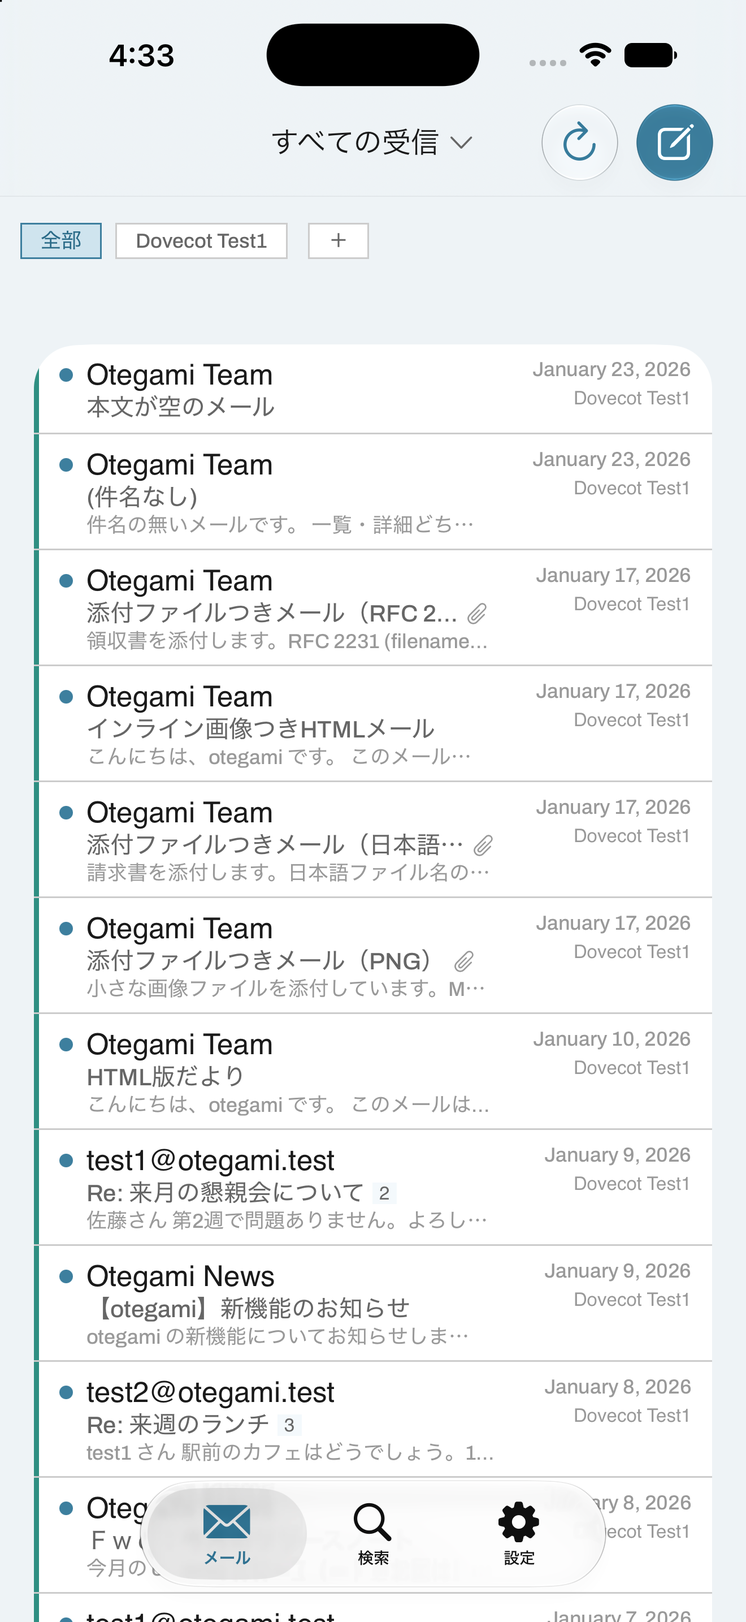
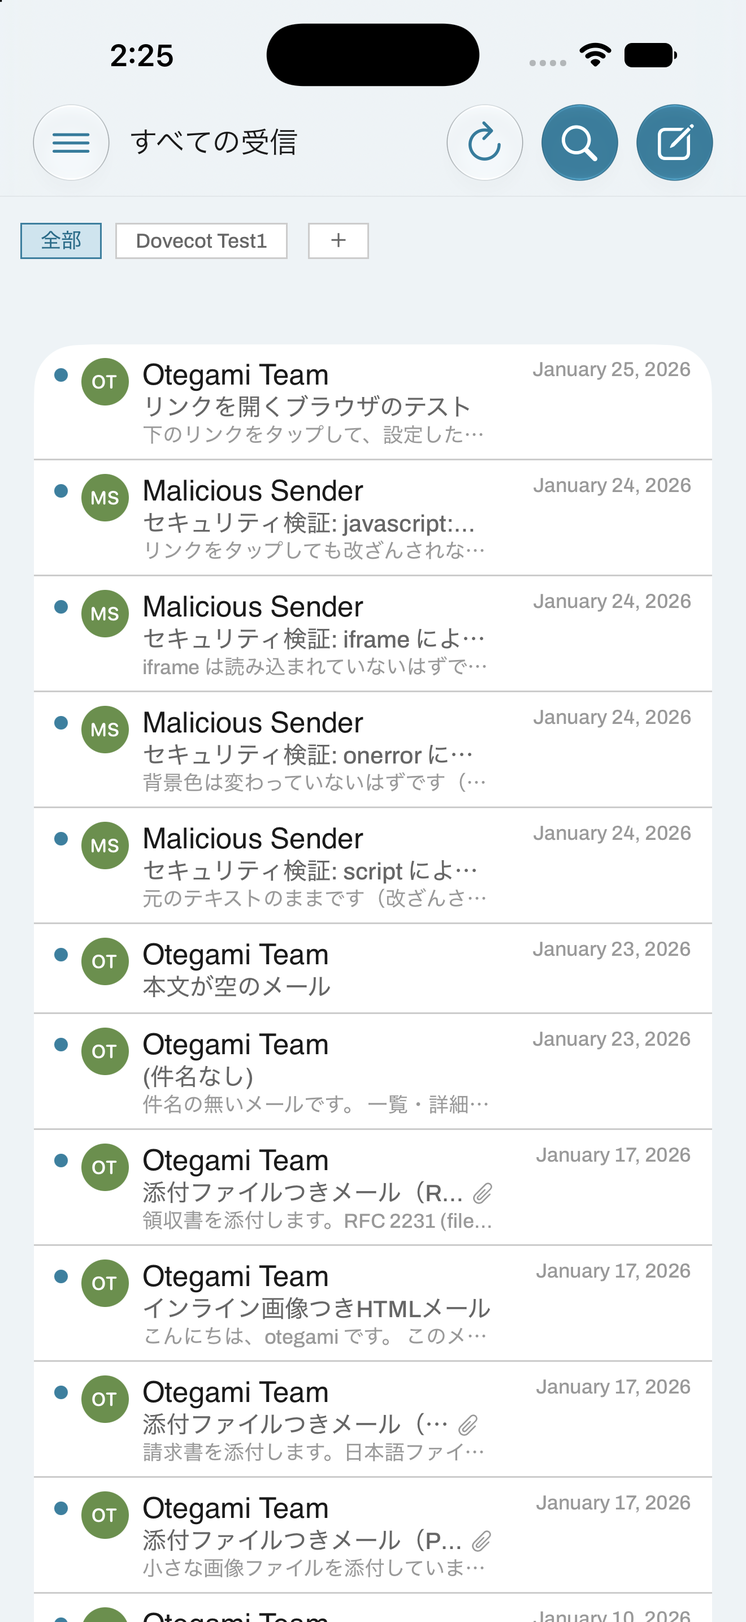
docs: record the hamburger menu / search / footer toolbar restructuring
- CLAUDE.md: 1a's "下部タブバー3つ" is superseded by the hamburger menu +
  header search; points to docs/design-system.md's new section.
- docs/design-system.md: full record of the batch (drawer-vs-sheet
  rationale, search operators/history, footer toolbar action placement,
  forward implementation, mute's local-only scope, raw-header scope
  decision, and the environment quirks found while regression-testing).
- docs/settings.md: new "メール本文フッターツールバーの並び順" entry.
- docs/verify.md / PENDING.md: m1/m4/m5/m7 regression results, including
  a pre-existing (not caused by this batch) C7 send-cancel + background
  scene-phase timing issue found while verifying m5.
- README.md/README_ja.md: describe the new iOS structure; refresh the
  inbox/search screenshots and add a footer-toolbar one (settings/compose
  screenshots are unchanged chrome-wise, left as is).

Claude-Session: https://claude.ai/code/session_01ABBv7JfsECGCNDa6P6sQdV

diff --git a/docs/design-system.md b/docs/design-system.md
@@ -505,3 +505,197 @@ ForEach { 複数行の HStack/VStack } } }` が1つの `body` 式に積み上が
 - シミュレータの `.app` プロセスから `FoundationModels` を呼んだ際の
   `LanguageModelError -1` の原因調査 (実機での再検証、または Apple の
   リリースノート/フォーラムでの既知の制限の有無確認)。
+
+## 新画面構成: 下部タブバー廃止・ハンバーガーメニュー・検索強化・
+メール本文フッターツールバー
+
+design-phase-2/3 で確定した 1a (下部タブバー3つ) を、ユーザー要望により
+ハンバーガーメニュー＋ヘッダ検索ボタン＋メール本文画面のフッターツール
+バーへ置き換えたバッチの記録。iOS のみ (macOS の3ペインは無変更)。
+
+### 1. ハンバーガーメニュー
+
+`OtegamiTabRootView`/`MailTabView`/`SettingsTabView`/`SearchTabView` を
+`OtegamiRootView`/`MailScreenView`/`SettingsSheetView`/`SearchScreenView`
+に再編した。iOS の唯一の常設画面は `MailScreenView` で、
+`HamburgerMenuContainer` (leading-edge のサイドドロワー、スクリム tap
+またはドラッグで閉じる) が `FolderListSheet` の中身 (統合受信トレイ／
+アカウント別ツリー／下書き／送信待ち／同期エラー) を包む。設定は
+`FolderListSheet` の一番下のセクション (`settingsSection`) から
+`SettingsSheetView` をシート表示する。
+
+- **シートではなくドロワーにした理由**: Gmail 等の主要メールアプリの
+  ハンバーガーメニューは leading-edge のドロワーが通例。加えて、
+  `FolderListSheet` の各行が「別のシートを開く」導線を持つため、この
+  メニュー自体がシートのままだと「シートからシートを開く」というこの
+  アプリで既知の壊れ方 (design-phase-2 以前から) を踏む — ドロワー化した
+  ことで `MailScreenView.presentAfterClosingMenu(_:)` はドロワーを閉じて
+  即座に次のシートを立てるだけの単純な実装で済むようになった
+  (旧 `pendingPostFolderAction` + `onDismiss` の間接呼び出しが不要に)。
+- **エッジスワイプで「開く」ジェスチャーは実装していない**: この
+  アプリの `NavigationStack` の戻るジェスチャー (画面端からのスワイプ)
+  との競合リスクがあり、ハンバーガーボタン自体が確実な開閉手段として
+  常にあるため、「閉じる」方向のスワイプ (ドラッグ追従 + 閾値) だけを
+  実装した。開くのは常にボタンタップ。
+
+### 2. 検索の移設と強化
+
+`SearchScreenView` (旧 `SearchTabView`) はヘッダの検索ボタン
+(`mail.searchButton`) からシート表示する。追加した要素:
+
+- **アカウントの絞り込み** (`SearchAccountFilterChipRow`、2アカウント
+  以上のときだけ表示 — 1アカウントのみなら「全部」チップが常に同じ
+  1件を指すだけで冗長、という 1d/`showsAccountAccent` と同じ判断)。
+- **検索演算子** `from:`/`to:`/`cc:`/`subject:` —
+  `SearchQuery.parse(_:)` がトークンを演算子とフリーテキストに分割し、
+  `SearchQuery.threadSummaries(parsed:scope:limit:db:)` が両者を
+  `Set<Int64>` の積集合として組み合わせる (AND 条件)。`message.toText`/
+  `.ccText` (v18 migration) は `fromText` (v7) と同じ理由でプレーン
+  テキストミラーとして追加した — JSON `.blob` 列を直接 `LIKE` できない
+  ため。発見可能性は検索フィールドのプレースホルダ
+  ("差出人・件名・本文 (from:/to:/subject: も使えます)") で担保した。
+- **検索履歴** (`SearchHistoryQuery`/`SearchHistoryRecord`, v20
+  migration) — 直近 `SearchHistoryQuery.maxEntries` (20) 件を新しい順に
+  表示、タップで再検索、スワイプで個別削除、「履歴をすべて削除」で
+  一括削除。同じクエリ文字列を再検索すると (`UNIQUE` 制約 +
+  delete-then-reinsert) 重複を作らず先頭に戻る — `updatedAt` だけの
+  `UPDATE` ではなく削除→再挿入にしたのは、`id DESC` を `updatedAt DESC`
+  の次点タイブレークにして「同じ `Date()` tick に収まった2回の記録」でも
+  決定的な順序になるようにするため (`SearchHistoryQuery.record(_:db:)`
+  のドキュメントコメント参照 — テストで実際に踏んだ)。
+
+macOS の `MessageListView` 自身の `.searchable` インライン検索は
+変更していない (`SearchQuery.threadSummaries(query:...)` を経由するため
+演算子は自動的に使えるようになっているが、アカウントチップ・履歴 UI は
+iOS の `SearchScreenView` 専用のまま)。
+
+### 3. メール本文画面のフッターツールバー
+
+`ThreadDetailView` に `MessageDetailFooterToolbar`
+(`.safeAreaInset(edge: .bottom)`) を新設し、`MessageView` にあった
+旧「返信/全員に返信/英語で返信を下書き」ボタン行を撤去した。対象は
+常にスレッド内の**最新メッセージ** (`ThreadDetailView.newestMessage`) —
+macOS の ⌘R (`RootView.replyToSelectedThread()`) が既に使っていた
+「展開されている最新メッセージに返信する」という規則をそのまま踏襲した。
+
+- **返信**: `Menu` (返信/全員に返信の2択)。
+- **転送**: 新規実装。`ComposerLaunchPayload.Kind.forward` →
+  `ComposerView.prefillForward(originalMessageId:)`。件名に `Fwd: ` を
+  付与、`> ` 引用 (返信と同じ `quotedBody(from:)`) の前に
+  「---------- 転送されたメッセージ ----------」ヘッダーブロックを挿入。
+  宛先 (To/Cc) は空のまま — 転送は「誰に送るか」をユーザーが必ず選び
+  直す操作という判断。`inReplyToMessageId`/`references` は設定しない
+  (転送は新しい会話として扱う)。**添付ファイルは引き継ぐ** —
+  `loadServerDraft(messageId:)` と同じ `syncCoordinator.fetchAttachment`
+  経路で、本文同様ネットワーク越しに取得してから引き継ぐ。一部だけ
+  取得できなかった場合は本文末尾にその旨を追記する (「全く引き継がない」
+  ではなく「引き継げなかった分だけ明示する」形を選んだ — 指示の
+  「引き継がないなら本文にその旨表示」を実用性寄りに解釈した判断)。
+- **検索**: `from:<最新メッセージの差出人アドレス>` をプリセットした
+  `SearchScreenView` を開く。**iOS のみ配線** — macOS の
+  `detailColumn` (`OtegamiApp.swift`) には渡していない。理由: macOS の
+  検索は `MessageListView` 自身の `.searchable` (`contentColumn` 側の
+  状態) であり、`detailColumn` から直接書き換える手段が今のところ無い
+  ため。`onSearchFromSender` が `nil` のときツールバーは検索アイコン
+  自体を出さない。
+- **情報**: `MessageHeaderInfoView` — Message-ID/In-Reply-To/References/
+  From/To/Cc/Bcc/Reply-To/件名/日時/Content-Type/メールボックスパス/UID/
+  サイズを表示。**生ヘッダ (RFC822 の `HEADER` パート全体、Received
+  チェーンを含む) は表示しない** — このアプリは受信メールの生ヘッダを
+  一度も保存しておらず (`MessageBodyRecord` は本文のみ)、
+  `MailTransport`/`MailCoreIMAPSession` にも生ヘッダだけを取得する API
+  が無い。新設するには IMAP `FETCH BODY[HEADER]` の新しい往復を
+  transport 層から通す必要があり、このバッチの他の作業に対して
+  不釣り合いなコストと判断し見送った。ローカル DB に既にある envelope
+  情報の表示に留め、画面内にその旨の注記を出す。次フェーズの課題として
+  ここに記録する。
+- **「…」メニュー**: ミュート/ミュート解除、ピン留め/解除、未読にする、
+  アーカイブ、迷惑メールにする、英語で返信を下書き (翻訳が使える端末の
+  み)、ツールバーをカスタマイズ、削除。これらのスレッド操作
+  (`ThreadDetailView` の "MARK: - 新画面構成 (3): スレッド操作" 節) は
+  `MessageListView` の同等のスワイプ/コンテキストメニュー実装
+  (`toggleRead`/`archiveThread`/`junkThread`/`togglePin`/`deleteThread`)
+  を再利用せず、**独立した実装**にした — `MessageListView` 側は
+  undo トースト (`scheduleUndo`)・検索結果配列 (`searchResults`) という
+  そのビュー固有の状態と密結合しており、無理に共有するとこの画面が
+  それらの状態を持つ理由のない依存関係を抱えることになる。
+  `ThreadQuery`/`OpQueue` を直接読み書きする同じパターンを独立に実装する
+  のは、macOS の ⌘⌫ (`RootView.deleteSelectedThread()`) が design-phase-2
+  以前から既に採用している「コードは共有しないが振る舞いはブレない」
+  という前例に倣った判断。**このバッチではアーカイブ/迷惑メール/削除に
+  undo トーストを出さない** — 実行後 `dismiss()` で一覧へ戻ること自体が
+  即座のフィードバックになる、という簡略化。
+- **ミュート**: `ThreadRecord.isMuted` (v19 migration) +
+  `ThreadQuery.setMuted(threadId:muted:db:)`。**ローカル限定の表示意図
+  フラグであり、プッシュ通知は抑制しない** — `NotificationService`
+  Extension は otegami-relay からの `mutable-content` プッシュを受けて
+  *その場で IMAP 経由の envelope 取得* をトリガに動くだけで、relay
+  自体はスレッドという概念もミュートという概念も持たない (メールボックス
+  単位で「新着があるか」しか watch しない)。ローカル専用のミュート状態を
+  relay に伝える経路 (クライアント→relay の同期チャネル) はこのアプリに
+  存在せず、新設するのはこのバッチの範囲を大きく超える。一覧側の
+  控えめ表示 (ダイム表示) は本バッチの範囲内で実装したが、通知抑制は
+  次フェーズの課題として残す。
+- **ツールバーのカスタマイズ**: `MessageToolbarSettingsStore`
+  (`UserDefaults` にカンマ区切りで永続化、`SwipeActionSettingsStore` と
+  同じ「素の `UserDefaults` キーの集まり」方針) + `MessageToolbarSettingsView`
+  (常時編集モードの `List`/`.onMove`)。5アクション
+  (`MessageToolbarAction.allCases`) は常にすべて表示、並び順だけを
+  変更できる — 有効/無効の概念は無い (「その他」を含めた自由な並び替え
+  も許可している。オーバーフローとして固定位置にする強制はしていない)。
+
+### 検証で見つかった既存の環境依存の落とし穴 (このバッチで新たに確認)
+
+- **`xcodebuild test -only-testing:` の1つのテストクラスが終わった後、
+  アプリがバックグラウンドへ遷移することがある** —
+  `scripts/verify-ios-m5.sh` の Phase 2/3 間 (compose→send の直後に
+  Mailpit へ届くのを host 側でポーリングする) でこれを実機で確認した。
+  C7 送信キャンセル (`SendCancelSettingsStore` 既定5秒) のカウントダウン
+  中にこの背景遷移が起きると、`PendingSendCoordinator.finalizeNow()` が
+  `beginBackgroundTask` 付きで即座に `replayOpQueue` を試みるはずだが、
+  実際には `opQueue` の `send` op が `attempts=0` のまま (＝一度も
+  リトライされずに) 何分も溜まり続け、**次にアプリをフォアグラウンドへ
+  戻したとき (`RootView.handleScenePhaseChange` の `.active` 経由の
+  `syncAllAccountsOnce()`) に初めて実際に送信された**ことを、
+  App Group 内の `otegami.sqlite` を直接 `sqlite3` で確認して裏付けた
+  (`opQueue`/`outboxMessage` の行が残っていること、フォアグラウンド化後
+  数秒で Mailpit に届くことの両方を確認)。**このバッチの UI 変更が原因
+  ではない** — `PendingSendCoordinator`/`OpQueueProcessor`/
+  `RootView` のシーンフェーズ処理は一切変更していない。Simulator の
+  バックグラウンド実行タイムアウトが実機より短い/不安定という既知の
+  制限 (M9 の「シミュレータは実 APNs デバイストークンを発行しない」と
+  同種の Simulator 固有の限界) の一種と見られるが、確証は得られていない
+  ため次フェーズの調査課題として記録する。**この不具合は本バッチの
+  コード変更を一切必要としない** — `docs/verify.md` へも記録した。
+- **`screenshot_mid_test` 方式のタイミング window が構造変更でずれる**:
+  検索/設定がタブの瞬時切り替えからシート表示 (アニメーション込み) に
+  変わったことで、`verify-ios-m7.sh`/`verify-ios-m4.sh` の固定 `sleep N`
+  ウィンドウが軒並み早すぎ、目的の画面 (検索結果、スレッド詳細) では
+  なく直前の状態 (検索履歴、メール一覧) を捉え続けた。両スクリプトの
+  ウィンドウを実測ベースで調整し、`docs/verify.md`/このファイルに記録
+  した — この手法自体がタイミングに脆弱であることは M6 時点から
+  既知の制約 (`docs/verify.md`) であり、今後も画面遷移の重さが変わる
+  たびに再調整が必要になりうる。
+
+### 検証済み
+
+`make test`/`make ios`/`make mac` すべて green。
+`scripts/verify-ios-m1.sh`/`verify-ios-m4.sh`/`verify-ios-m7.sh` を
+実際の dev mailstack に対して実行し green (`verify-ios-m5.sh` は
+Phase 1/2 の UI フロー — SMTP アカウント追加・作成・送信操作自体 — は
+green、Phase 3 以降の Mailpit 到達確認は上記の背景遷移タイミング問題で
+不安定)。ハンバーガーメニュー・アカウント絞り込みチップ・検索演算子の
+プレースホルダ・検索履歴・スレッド詳細のフッターツールバーは実機
+スクリーンショットで目視確認済み。新規 XCUITest は追加せず、既存の
+壊れたテスト (`tabBars`/`mail.folderTitleButton`/`messageDetail
+.replyButton` 等に依存していたもの) を新構成に合わせて更新した
+(`apps/Otegami/UITests/` 配下、詳細は該当コミット参照)。
+
+### 次フェーズへの申し送り
+
+- メール本文画面「情報」の生ヘッダ表示 (要 IMAP `FETCH BODY[HEADER]`
+  API の新設)。
+- スレッドミュートによるプッシュ通知抑制 (要 relay 側のミュート対応、
+  クライアント→relay 同期チャネルの新設)。
+- `PendingSendCoordinator`/`OpQueueProcessor` の Simulator 固有と見られる
+  バックグラウンド送信タイミング不具合の原因調査 (実機での再検証)。

diff --git a/PENDING.md b/PENDING.md
@@ -254,6 +254,46 @@ DB ファイルを直接読むと INSERT した行を含めて正しい内容が
   自動検証スクリプト (単一 `xcodebuild test` 呼び出し内で完結するもの)
   には影響しない。
 
+## 開発環境: `xcodebuild test` 実行中にアプリがバックグラウンドへ遷移し、
+## C7 送信キャンセルの opQueue リプレイが取り残されることがある (原因未特定)
+
+**症状**: 新画面構成バッチの `scripts/verify-ios-m5.sh` 回帰実行中に発見。
+Phase 2 (`OtegamiM5ComposeSendUITests` — 作成→送信、Composer シートの
+dismiss を確認して即座にテストメソッドが返る) が完了した直後、
+Simulator のホーム画面が表示される (アプリがバックグラウンドへ遷移した)
+ことをスクリーンショットで確認した。C7 送信キャンセル
+(`SendCancelSettingsStore` 既定5秒のカウントダウン) の途中でこれが
+起きると、`RootView.handleScenePhaseChange` の `.background` 分岐が
+`PendingSendCoordinator.finalizeNow()` を呼び `beginBackgroundTask` 付きで
+即座に `replayOpQueue` を試みるはずだが、実際には `opQueue` の `send` 行が
+`attempts=0` のまま (＝一度もリトライされずに) 何分も残り続けることを、
+App Group コンテナ内の `otegami.sqlite` を `sqlite3` で直接読んで確認した
+(DB ファイル自体は正しく開けており、上記の「App Group DB が読めなくなる」
+節とは別の症状)。**次にアプリをフォアグラウンドへ戻した瞬間
+(`.active` 経由の `syncAllAccountsOnce()`) に初めて実際に送信され、
+数秒で Mailpit に届くことも確認済み** — データ消失はなく、あくまで
+「バックグラウンドで止まったまま次のフォアグラウンド化を待つ」状態。
+
+- **このバッチのコード変更が原因ではない**: `PendingSendCoordinator`/
+  `OpQueueProcessor`/`RootView` のシーンフェーズ処理は一切変更していない
+  (今回のバッチはハンバーガーメニュー/検索/フッターツールバーの UI 層の
+  変更のみ)。C7 自体はこのバッチ以前から存在する機能で、`docs/verify.md`
+  には C7 導入後に `verify-ios-m5.sh` を通し直した記録が見当たらず、
+  このバッチの回帰実行が (偶然にも) この経路を最初に踏んだ可能性がある。
+  Simulator のバックグラウンド実行タイムアウトが実機より短い/不安定と
+  いう既知の一般的な制限 (M9「シミュレータは実 APNs デバイストークンを
+  発行しない」と同種) の一種と見ているが未確証。
+- **対応手順 (次にこの手順を検証する人向け)**: 実機での再現有無の確認
+  (Simulator 固有かどうかの切り分け)。再現するなら、
+  `beginBackgroundTask` の猶予時間内に `OpQueueProcessor.replay` の
+  IMAP/SMTP 接続が実際に開始されているか (`MCOConnectionLogger` 等で
+  ワイヤレベルの挙動を見る、`docs/verify.md` の M5 節が使った手法) から
+  切り分けるとよい。影響は「送信直後にアプリが素早くバックグラウンドへ
+  回るタイミング」に限られ、通常の利用 (送信後もアプリを見ている、5秒の
+  カウントダウンが終わるまで待つ) では踏まない。詳細は
+  `docs/design-system.md`「新画面構成」節の「検証で見つかった既存の
+  環境依存の落とし穴」参照。
+
 ## 公開時に必要な対応 (まとめ)
 
 以下は「今すぐ開発を止める理由」ではなく、実際に公開・配布する段になったら

diff --git a/docs/verify.md b/docs/verify.md
@@ -2983,3 +2983,32 @@ scripts/verify-ios-credential-recovery.sh
 `app.launch()` を単一の `xcodebuild test` 呼び出し内で完結させる設計
 (`OtegamiCredentialRecoveryUITests` の既存パターン) のため、この制約の
 影響を受けず問題なく実行できた。
+
+## 新画面構成 (ハンバーガーメニュー/検索強化/フッターツールバー) の回帰
+
+下部タブバー廃止に伴う `scripts/verify-ios-m1.sh`/`verify-ios-m4.sh`/
+`verify-ios-m5.sh`/`verify-ios-m7.sh` の回帰実行記録。実装内容・目視
+確認の詳細は `docs/design-system.md`「新画面構成」節を参照 (このファイル
+には検証固有の注意点のみ記録する)。
+
+- **m1/m4/m7 は green** (実 dev mailstack に対して実行、ハンバーガー
+  メニュー・アカウント絞り込みチップ・スレッド詳細のフッターツール
+  バー・検索履歴/演算子/アカウントチップを実機スクリーンショットで
+  目視確認済み)。
+- **m5 は Phase 1/2 (SMTP アカウント追加・作成・送信の UI フロー) まで
+  green、Phase 3 以降 (Mailpit への到達確認) が不安定** — 原因は
+  このバッチのコード変更ではなく、`xcodebuild test` のテストクラス
+  完了直後にアプリがバックグラウンドへ遷移することがあり、C7 送信
+  キャンセルのカウントダウン中にこれが起きると `opQueue` の `send` 行が
+  `attempts=0` のまま次のフォアグラウンド化まで取り残される、という
+  既存機能 (C6/C7) 側の環境依存の挙動によるもの。`PENDING.md`「開発
+  環境: `xcodebuild test` 実行中にアプリがバックグラウンドへ遷移し、
+  C7 送信キャンセルの opQueue リプレイが取り残されることがある」節に
+  詳細を記録した。
+- `verify-ios-m4.sh`/`verify-ios-m7.sh` の mid-test スクリーンショット
+  ウィンドウ (`screenshot_mid_test`/類似のインライン `sleep` ループ) を
+  実測ベースで調整した — 検索/設定がタブの瞬時切り替えからシート表示に
+  変わったことで、旧ウィンドウは軒並み早すぎ、目的の画面ではなく直前の
+  状態 (検索履歴、メール一覧) を捉え続けていた。この手法自体がタイミング
+  に脆弱であることは M6 時点から既知の制約であり、今後も画面遷移の重さが
+  変わるたびに再調整が必要になりうる。

diff --git a/README.md b/README.md
@@ -151,14 +151,19 @@ for the original wireframe options and
 [`docs/design-system.md`](docs/design-system.md) for the resulting token
 system): flat, zero-corner-radius, 2pt rules, Archivo for Latin text with
 system fonts for Japanese, a pale-blue-on-white palette with a matching
-dark theme. iOS uses a bottom tab bar (Mail / Search / Settings) with a
-unified inbox, account filter chips, and a folder sheet reached from the
-nav title; macOS keeps its three-pane `NavigationSplitView` — the compact
-layout doesn't fit the wider screen. Full component/token reference in
-[`docs/design-system.md`](docs/design-system.md).
+dark theme. iOS has a single always-visible mail screen (unified inbox +
+account filter chips) with a hamburger-menu drawer for folder navigation
+and settings, a header search button that opens a dedicated search screen
+(account chips, `from:`/`to:`/`cc:`/`subject:` search operators, search
+history), and a fixed footer toolbar on the message screen (reply/forward/
+search-from-sender/message info/more — mute, pin, archive, junk, delete,
+toolbar reordering); macOS keeps its three-pane `NavigationSplitView` — the
+compact layout doesn't fit the wider screen. Full component/token
+reference in [`docs/design-system.md`](docs/design-system.md).
 
 <p align="center">
-  <img src="docs/assets/screenshot-ios-search.png" width="32%" alt="Cross-account search with filter chips (iOS)">
+  <img src="docs/assets/screenshot-ios-search.png" width="32%" alt="Cross-account search with account filter chips and search operators (iOS)">
+  <img src="docs/assets/screenshot-ios-thread-toolbar.png" width="32%" alt="Message screen with the footer toolbar: reply, forward, search, info, more (iOS)">
   <img src="docs/assets/screenshot-ios-settings.png" width="32%" alt="Settings: accounts, swipe actions, translation (iOS)">
 </p>
 

diff --git a/CLAUDE.md b/CLAUDE.md
@@ -9,10 +9,14 @@
 iOS UI の構造・情報設計は [`design_handoff_ios_mail/README.md`](design_handoff_ios_mail/README.md)
 (Claude Design 作成のハンドオフ) を参照すること。**採用済みの選択**:
 
-- **情報設計: 1a** (統合受信トレイ＋アカウント絞り込みチップ＋下部タブ
-  バー3つ)。iOS のみ。**macOS は現状の `NavigationSplitView` 3ペインを
-  維持する** — 1a はコンパクト幅向けの設計であり、Mac の広い画面には
-  適用しない。
+- **情報設計: 1a** (統合受信トレイ＋アカウント絞り込みチップ)。iOS のみ。
+  **macOS は現状の `NavigationSplitView` 3ペインを維持する** — 1a は
+  コンパクト幅向けの設計であり、Mac の広い画面には適用しない。
+  **下部タブバー3つ (メール/検索/設定) は新画面構成で廃止済み** — 左上の
+  ハンバーガーメニュー (`OtegamiRootView`/`MailScreenView`/
+  `HamburgerMenuContainer`) がフォルダ切替＋設定を、ヘッダの検索ボタン
+  (`SearchScreenView`) が検索を担う。詳細・経緯は `docs/design-system.md`
+  の「新画面構成」節参照。
 - **一覧レイアウト: 1d** (標準3行＋アカウント色の左罫線3px)
 - **操作モデル: 1g + 1h + 1i** (スワイプ割り当て／長押し一括選択／詳細
   画面の翻訳インタラクション)

diff --git a/docs/settings.md b/docs/settings.md
@@ -216,3 +216,18 @@ iOS 27 beta) では、実リンクタップ時に `WKNavigationDelegate
 `PushSettingsStore.swift` (Keychain 併用、`push.*` キー群)。設定 →
 「プッシュ通知」から有効化。詳細は
 [docs/relay-deployment.md](relay-deployment.md)。
+
+## メール本文フッターツールバーの並び順 (新画面構成) — iOS のみ
+
+`MessageToolbarSettingsStore.swift`。メール本文画面 (`ThreadDetailView`)
+下部のフッターツールバーに並ぶ5アイコン (返信/転送/検索/情報/その他) の
+順序。メール本文画面の「…」メニュー →「ツールバーをカスタマイズ」
+(`MessageToolbarSettingsView`、常時編集モードの並び替えリスト) から
+変更できる。
+
+| キー | 既定値 |
+| --- | --- |
+| `messageToolbar.order` | `reply,forward,search,info,more` (カンマ区切り) |
+
+有効/無効の概念は無く (5つとも常に表示)、並び順だけを変更できる。詳細・
+各アイコンの動作は `docs/design-system.md`「新画面構成」節を参照。
